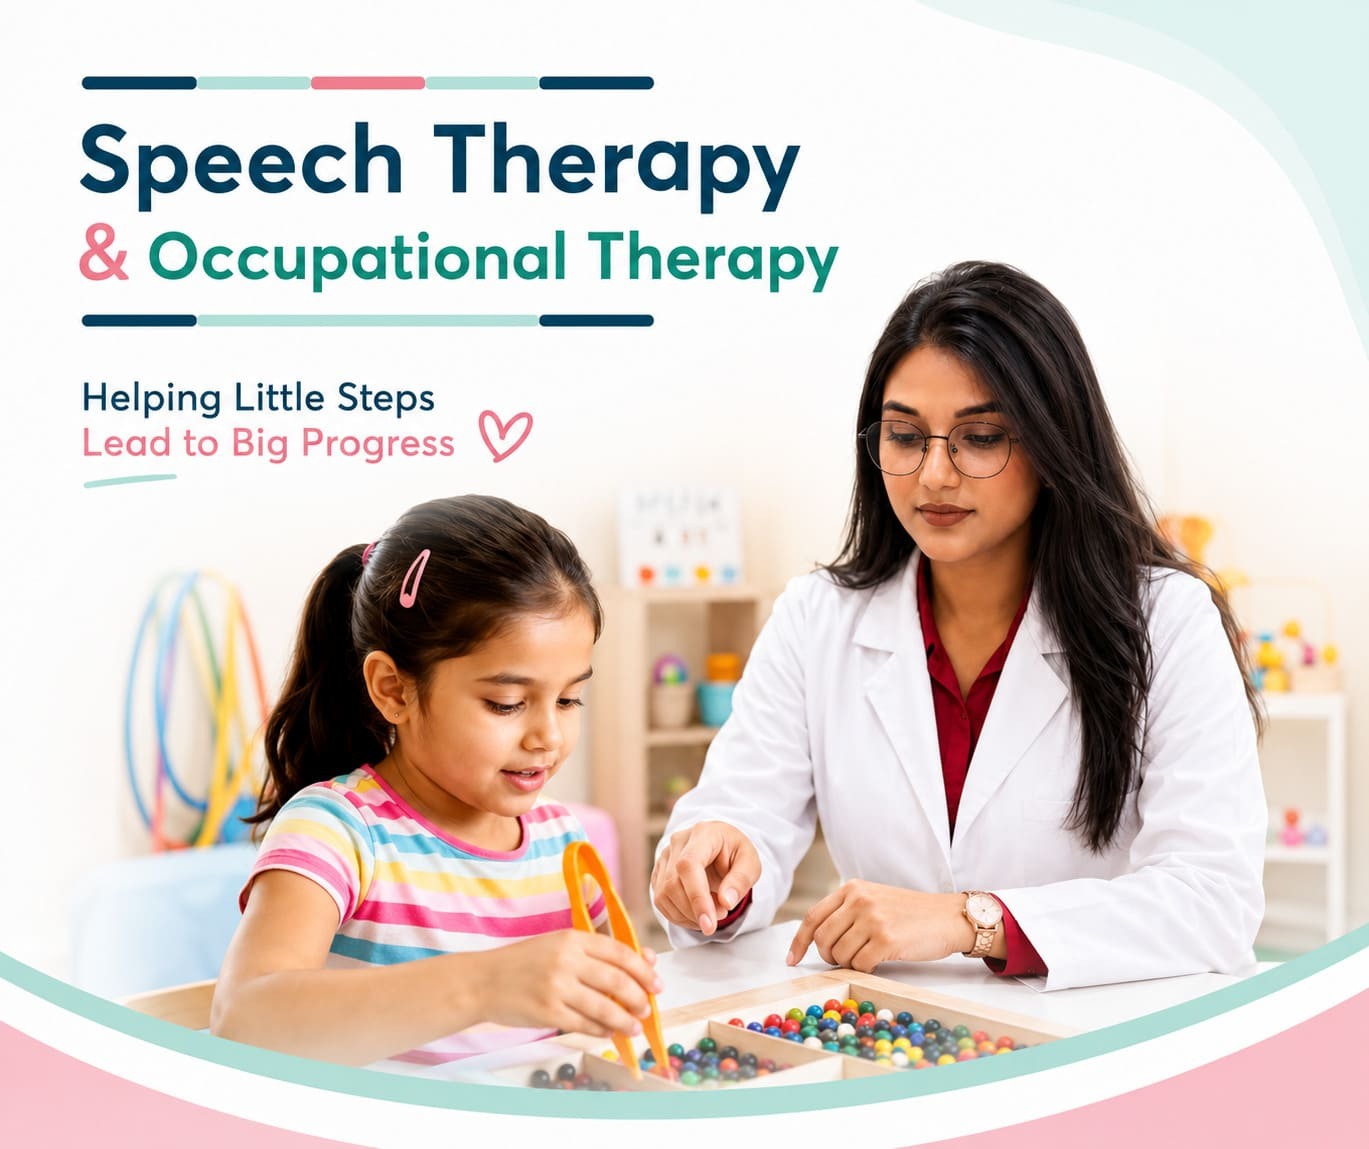
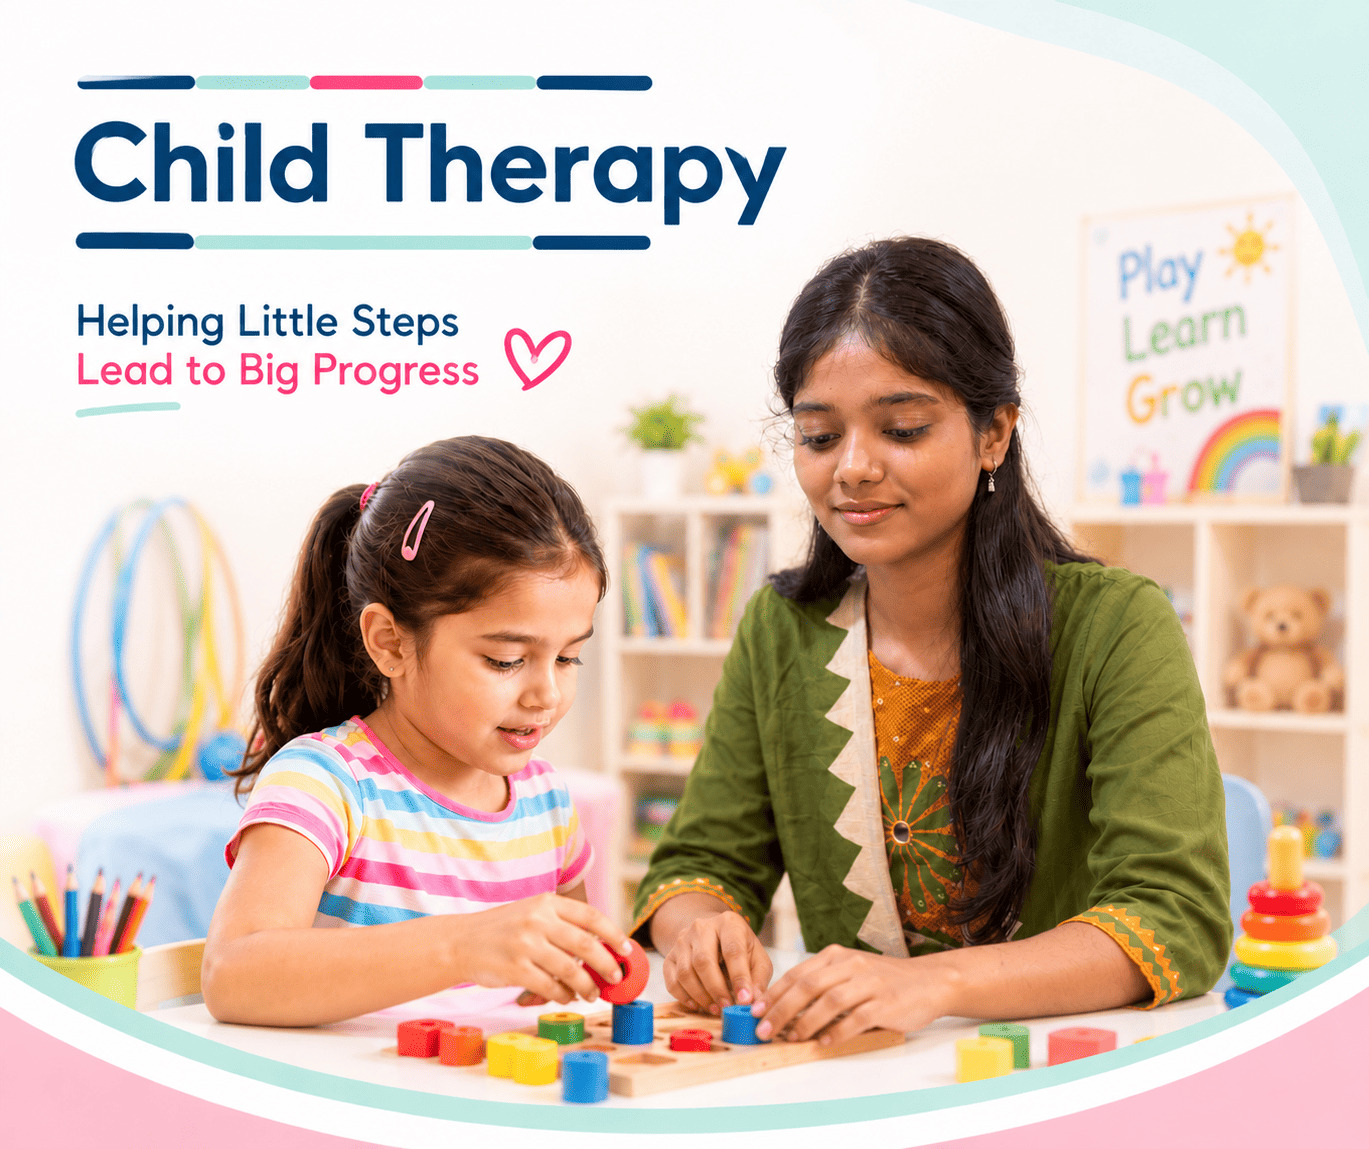
bew ibe

diff --git a/app/components/ClinicHome.js b/app/components/ClinicHome.js
@@ -54,7 +54,7 @@ const CONDITIONS = {
 };
 
 const TESTIMONIALS = [
-  ['Ritu Devi', 'Mother of a 4-year-old, Dehri', 'My son was not speaking full words at 3. After a few months with Akansha Ma\'am, he now talks in full sentences. Very patient with kids.'],
+  ['Ritu Devi', 'Mother of a 4-year-old, Dehri', 'My son was not speaking full words at 3. After a few months of therapy at Samarth Clinic, he now talks in full sentences. Very patient with kids.'],
   ['Manoj Kumar', 'Adult patient, Dehri-on-Sone', 'After my stroke, my speech was very unclear. A few months of therapy here and I can talk to my family and shopkeepers without hesitation now.'],
   ['Sunita Kumari', 'Parent, Sasaram', 'Doctor explains everything in simple Hindi-English. My daughter\'s handwriting has improved a lot in 3 months.'],
 ];
@@ -63,7 +63,7 @@ const FAQS = [
   ['At what age should I bring my child for speech therapy?', 'The earlier the better. If your child is not saying simple words by age 2, or sentences by age 3, it is a good time for a free check-up. But we treat all ages, including adults.'],
   ['Is stammering completely curable?', 'Many children outgrow it fully with early, correct therapy. Even for older kids and adults, we can teach techniques that make speech much smoother and reduce stress while talking.'],
   ['Do you only treat children, or adults too?', 'Both. We treat children with speech and developmental delays, and also adults recovering from stroke, accidents, or voice problems.'],
-  ['How many sessions will be needed?', 'It depends on the condition. After the first assessment, Akansha Ma\'am will explain a clear plan and rough timeline, whether it\'s for you or your child.'],
+  ['How many sessions will be needed?', 'It depends on the condition. After the first assessment, our therapist will explain a clear plan and rough timeline for your child.'],
   ['Do you provide home visits or online sessions?', 'Yes, home visits and online follow-up sessions are available in select cases. Please call us to check.'],
   ['Where exactly is the clinic located in Dehri-on-Sone?', 'We are located near Civil Lines, Dehri-on-Sone, Rohtas. Full directions are in the map below, or just call us and we will guide you.'],
 ];
@@ -175,13 +175,13 @@ function Hero() {
     <section id="home" className="relative overflow-hidden">
       <div className="max-w-6xl mx-auto px-4 md:px-6 pt-4 md:pt-10 pb-16 grid md:grid-cols-2 gap-10 items-center">
         <motion.div initial={{ opacity: 0, y: 18 }} animate={{ opacity: 1, y: 0 }} transition={{ duration: 0.6 }}>
-          <Eyebrow>Speech &amp; Occupational Therapy Center • Dehri-on-Sone</Eyebrow>
+          <Eyebrow>Child Therapy • Dehri-on-Sone</Eyebrow>
           <h1 className={`${baloo.className} text-3xl md:text-3xl font-extrabold text-[#0F3B3A] mt-5 leading-tight`}>
-            Helping every patient find clear <span className="text-[#146C6B]">speech</span> and everyday confidence.
+            Helping every child find clear <span className="text-[#146C6B]">speech</span> and everyday confidence.
           </h1>
           <p className="text-[#3F5453] mt-5 text-base md:text-md leading-relaxed max-w-lg">
-          Dehri-on-Sone's trusted Speech & Occupational Therapy Center for all ages.
-          Personalized care for speech delay, stammering, sensory issues, handwriting, and stroke recovery.
+          Dehri-on-Sone's trusted Child Therapy center.
+          Personalized care for speech delay, stammering, sensory issues, handwriting, and developmental support.
           </p>
           <div className="flex gap-3 mt-7">
           <a
@@ -213,7 +213,7 @@ function Hero() {
           <div className="relative w-full aspect-[6/5] bg-[#EAF6F4]">
             <Image
               src="/images/hero-session.jpg"
-              alt="Speech therapist working with a patient at Samarth Clinic, Dehri-on-Sone"
+              alt="Child therapy session at Samarth Clinic, Dehri-on-Sone"
               fill priority sizes="(max-width: 768px) 100vw, 520px"
               className="object-cover"
             />
@@ -249,19 +249,18 @@ function DoctorCard({ name, role, tag, img, delay }) {
 function Doctors() {
   return (
     <section id="doctors" className="bg-[#EAF6F4] py-16 md:py-20">
-      <SectionHeading eyebrow="Meet the team" title="The people behind every patient's progress" sub="Two experienced therapists, one clear goal — real, lasting improvement." />
-      <div className="max-w-5xl mx-auto px-4 grid md:grid-cols-5 gap-5 items-stretch">
-        <div className="md:col-span-2 relative rounded-2xl overflow-hidden min-h-[200px] bg-white">
+      <SectionHeading eyebrow="Meet the team" title="The leadership behind patient care" sub="Experienced care and dedicated guidance — real, lasting improvement." />
+      <div className="max-w-4xl mx-auto px-4 grid md:grid-cols-2 gap-6 items-stretch">
+        <div className="relative rounded-2xl overflow-hidden min-h-[260px] bg-white">
           <Image
             src="/images/clinic-interior.jpg"
             alt="Inside Samarth Clinic therapy room, Dehri-on-Sone"
-            fill sizes="(max-width: 768px) 100vw, 320px"
+            fill sizes="(max-width: 768px) 100vw, 450px"
             className="object-cover"
           />
         </div>
-        <div className="md:col-span-3 flex flex-col sm:flex-row gap-5">
-          <DoctorCard name="Akansha Singh" role="Speech &amp; Occupational Therapist — AIIMS Bhopal, Gandhi Medical College &amp; IGIMS Patna. Heads the Speech &amp; OT department at Samarth Clinic." tag="S&O Lead Therapist" img="/images/doctor-akansha.jpg" delay={0} />
-          <DoctorCard name="Dr. Prem Prakash" role="BPT, Physiotherapist — Founder &amp; Clinic Head of Samarth Clinic, Dehri-on-Sone." tag="Lead Physiotherapist" img="/images/doctor-prem.jpg" delay={0.1} />
+        <div className="flex">
+          <DoctorCard name="Dr. Prem Prakash" role="BPT, Physiotherapist — Founder &amp; Clinic Head of Samarth Clinic, Dehri-on-Sone." tag="Founder &amp; Clinic Head" img="/images/doctor-prem.jpg" delay={0.1} />
         </div>
       </div>
     </section>
@@ -276,7 +275,7 @@ function Services() {
   const list = tab === 'speech' ? SPEECH_SERVICES : OT_SERVICES;
   return (
     <section id="services" className="py-16 md:py-20">
-      <SectionHeading eyebrow="What we treat" title="Speech &amp; Occupational Therapy Services" sub="Focused programs for children and adults, built around each patient's needs." />
+      <SectionHeading eyebrow="What we treat" title="Child Therapy Services" sub="Focused programs built around each child's needs." />
       <div className="max-w-5xl mx-auto px-4">
         <div className="flex justify-center gap-2 mb-9">
           {[['speech', 'Speech Therapy'], ['ot', 'Occupational Therapy']].map(([key, label]) => (
@@ -612,7 +611,7 @@ function Footer() {
       <div className="max-w-6xl mx-auto px-4 grid sm:grid-cols-2 md:grid-cols-3 gap-8">
         <div>
           <p className={`${baloo.className} text-lg font-bold text-white`}>Samarth Clinic</p>
-          <p className="text-sm mt-2 leading-relaxed">Speech &amp; Occupational Therapy Center, Dehri-on-Sone, Rohtas, Bihar.</p>
+          <p className="text-sm mt-2 leading-relaxed">Child Therapy, Dehri-on-Sone, Rohtas, Bihar.</p>
         </div>
         <div>
           <p className="text-white font-semibold text-sm mb-2">Quick Links</p>

diff --git a/app/page.tsx b/app/page.tsx
@@ -5,21 +5,22 @@ import ClinicHome from './components/ClinicHome';
 /* ------------------------------------------------------------------ */
 export const metadata = {
   metadataBase: new URL('https://www.samarthclinicdehri.com'),
-  title: 'Best Speech & Occupational Therapy Clinic in Dehri-on-Sone, Bihar | Samarth Clinic',
+  title: 'Best Child Therapy Clinic in Dehri-on-Sone, Bihar | Samarth Clinic',
   description:
-    'Samarth Clinic, Dehri-on-Sone offers expert speech therapy and occupational therapy for speech delay, stammering, autism, sensory issues, handwriting and more. Book a free consultation today.',
+    'Samarth Clinic, Dehri-on-Sone offers expert Child Therapy Services for speech delay, stammering, autism, sensory issues, handwriting and developmental care. Book a free consultation today.',
   keywords: [
-    'speech therapy Dehri-on-Sone', 'occupational therapy Dehri', 'speech therapist Dehri Bihar',
+    'child therapy Dehri-on-Sone', 'child therapy services Bihar', 'speech therapy Dehri-on-Sone',
+    'occupational therapy Dehri', 'speech therapist Dehri Bihar',
     'stammering treatment Dehri', 'child speech delay Rohtas', 'autism therapy Dehri-on-Sone',
-    'best speech therapy clinic Bihar', 'occupational therapist Sasaram', 'Samarth Clinic Dehri',
+    'best child therapy clinic Bihar', 'occupational therapist Sasaram', 'Samarth Clinic Dehri',
   ],
   alternates: { canonical: '/' },
   openGraph: {
-    title: 'Samarth Clinic — Speech & Occupational Therapy, Dehri-on-Sone',
-    description: 'Expert speech and occupational therapy for children and adults in Dehri-on-Sone, Rohtas, Bihar.',
+    title: 'Samarth Clinic — Child Therapy, Dehri-on-Sone',
+    description: 'Expert Child Therapy Services for children and developmental care in Dehri-on-Sone, Rohtas, Bihar.',
     url: '/',
     siteName: 'Samarth Clinic',
-    images: [{ url: '/images/og-image.jpg', width: 1200, height: 630, alt: 'Samarth Clinic — Speech & Occupational Therapy, Dehri-on-Sone' }],
+    images: [{ url: '/images/og-image.jpg', width: 1200, height: 630, alt: 'Samarth Clinic — Child Therapy, Dehri-on-Sone' }],
     locale: 'en_IN',
     type: 'website',
   },
@@ -31,7 +32,7 @@ export const viewport = { width: 'device-width', initialScale: 1 };
 const jsonLd = {
   '@context': 'https://schema.org',
   '@type': 'MedicalClinic',
-  name: 'Samarth Clinic - Speech & Occupational Therapy Center',
+  name: 'Samarth Clinic - Child Therapy',
   url: 'https://www.samarthclinicdehri.com/',
   telephone: '+91-90000-00000',
   priceRange: '₹₹',
@@ -44,7 +45,7 @@ const jsonLd = {
     addressCountry: 'IN',
   },
   geo: { '@type': 'GeoCoordinates', latitude: 24.9086, longitude: 84.1917 },
-  medicalSpecialty: ['Speech-Language Pathology', 'Occupational Therapy', 'Physiotherapy'],
+  medicalSpecialty: ['Pediatric Rehabilitation', 'Speech-Language Pathology', 'Occupational Therapy', 'Physiotherapy'],
   openingHoursSpecification: {
     '@type': 'OpeningHoursSpecification',
     dayOfWeek: ['Monday', 'Tuesday', 'Wednesday', 'Thursday', 'Friday', 'Saturday'],
@@ -52,7 +53,6 @@ const jsonLd = {
     closes: '19:00',
   },
   physician: [
-    { '@type': 'Physician', name: 'Akansha Singh', jobTitle: 'Speech-Language & Occupational Therapist' },
     { '@type': 'Physician', name: 'Dr. Prem Prakash', jobTitle: 'Physiotherapist (BPT), Clinic Head' },
   ],
   areaServed: ['Dehri-on-Sone', 'Rohtas', 'Sasaram', 'Bihar'],
